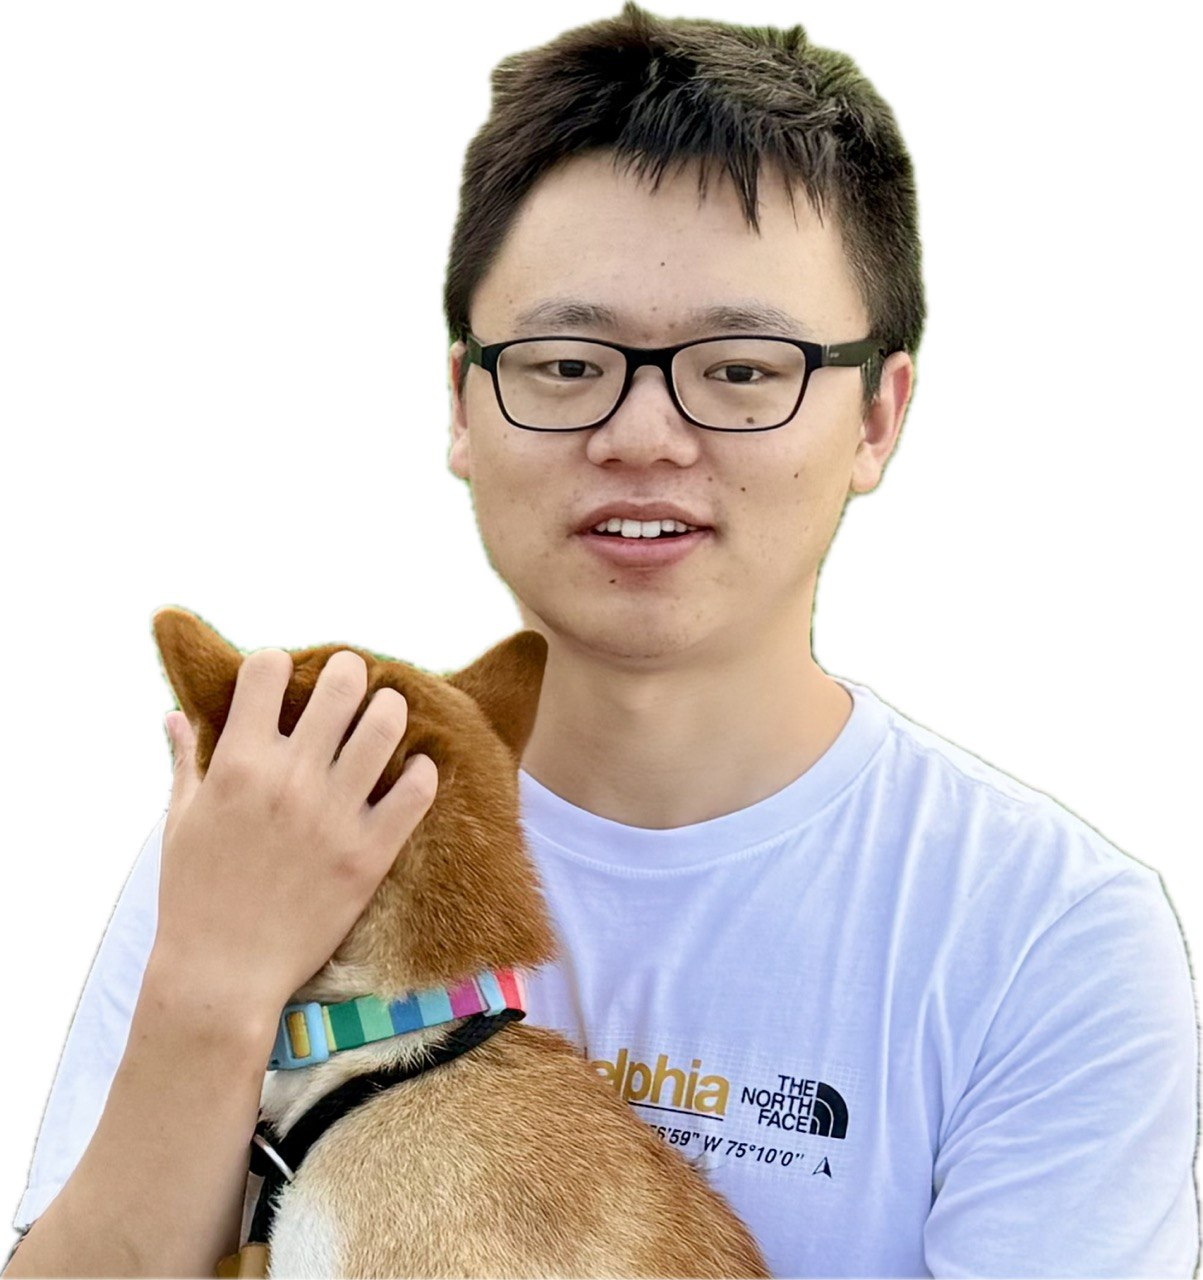
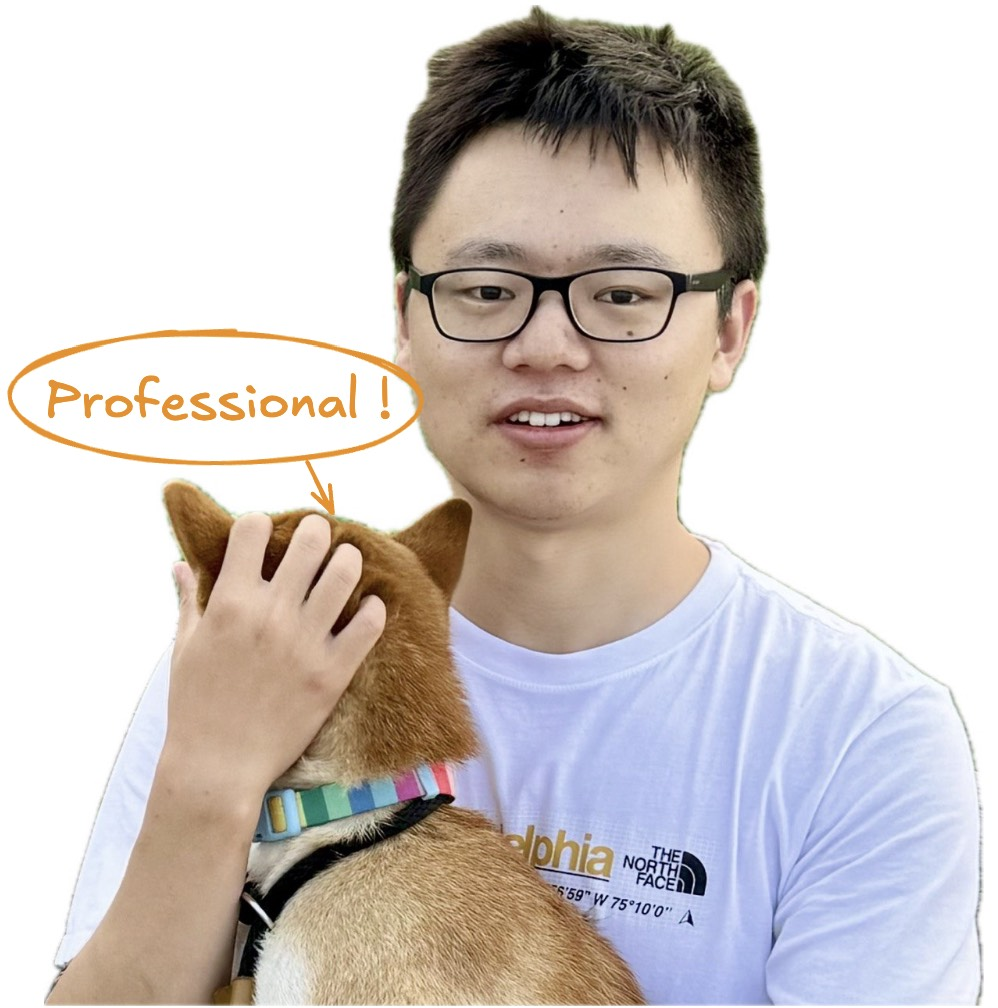
update

diff --git a/src/routes/+page.svelte b/src/routes/+page.svelte
@@ -5,6 +5,7 @@
 	import { base } from '$app/paths';
 	import '../app.css';
 	import LiquidCache from '$lib/assets/liquid-cache.png';
+	import Ruby from '$lib/assets/ruby.jpg';
 </script>
 
 <div class="flex justify-center items-center min-h-screen p-4 bg-gray-100">
@@ -88,7 +89,15 @@
 						</div>
 					</div>
 					<div class="md:basis-[30%] md:max-w-[30%]">
-						<img src={portrait} class="w-full md:w-4/5 mx-auto" alt="Xiangpeng on Mt. Rainier" />
+						<img
+							src={portrait}
+							class="w-full md:w-4/5 mx-auto"
+							alt="Xiangpeng and Ruby (his dog)"
+						/>
+						<span class="text-sm text-gray-500"
+							>Xiangpeng and Ruby <a href={Ruby} class="text-gray-600">(more professional photos)</a
+							></span
+						>
 						<div class="flex flex-wrap justify-between mt-4 gap-2">
 							<div><a href={cv}>CV</a></div>
 							<div><a href="https://blog.xiangpeng.systems">Blog</a></div>
